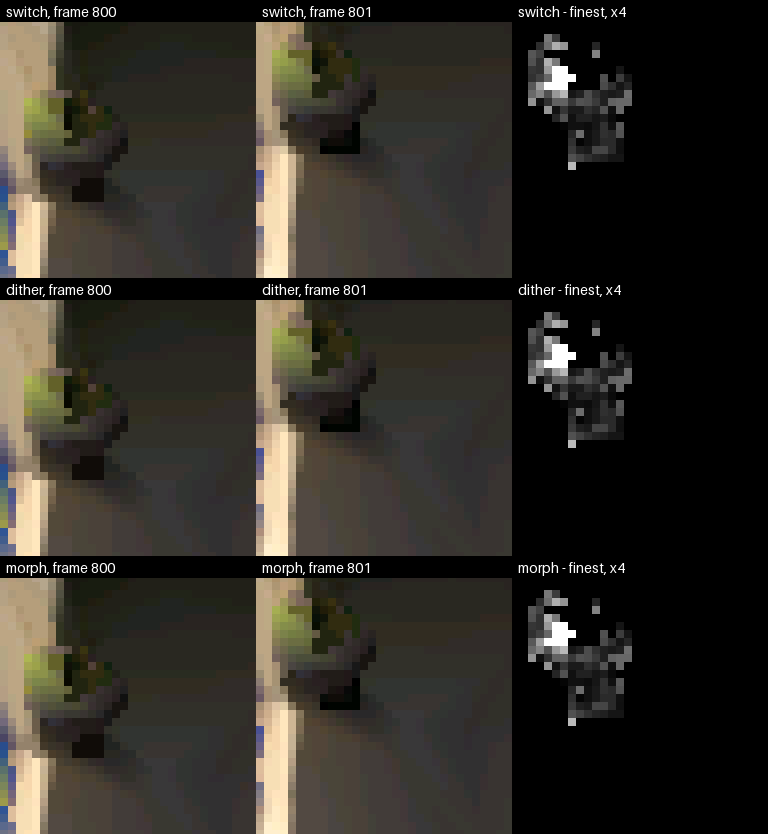
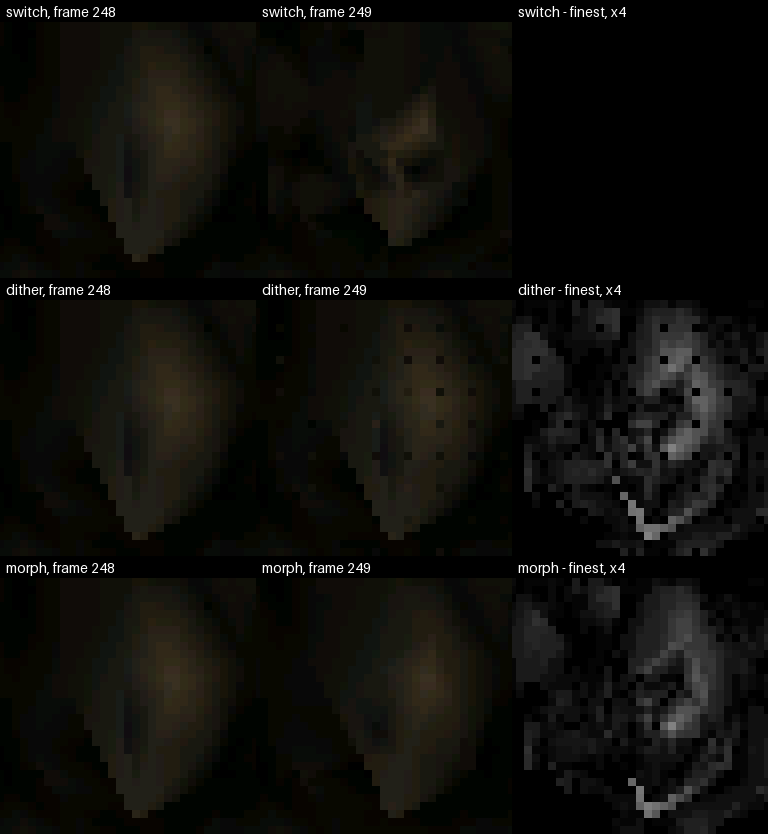
docs (i7bfd): the LOD blend clip follows a camera closing in on the Sponza lion relief at a 16 px cut, the four arms' middles side by side over the whole approach; the still zooms on the relief's own switch (a lion camera beside tour, which no bake reads)

diff --git a/launcher/tools/r3d/lod/blend_render_figures.py b/launcher/tools/r3d/lod/blend_render_figures.py
@@ -1,13 +1,15 @@
-"""The level switch the blend softens, on a scene's camera path: Levels-of-Detail.md's render figures.
+"""The level switches the blend softens, on a camera closing in on one detail: Levels-of-Detail.md's render figures.
 
     python launcher/tools/r3d/lod/blend_render_figures.py --script HOST_RENDER.sh --render "RENDERER ARGS"         --morph MESH [--morph ...] --out DIR
 
 Renders the path at the finest level, with the pick's switches drawn as they are (lod.blend switch) and blended
 (lod.blend on, which dithers a mesh without morph targets), and blended again with each --morph mesh given its
-morph targets (morph_packs.py), then finds the window where a switch pops most: the
-frame and the square whose frame-to-frame change differs most from the finest level's, on luma averaged over the
-screen door's tile (morph_table.py's worst pop). lod-blend-pop.gif plays that square through the frames around
-it, the finest level beside each arm; lod-blend-pop.png is the frame before and the frame of the pop, with each arm's difference from the finest level.
+morph targets (morph_packs.py). lod-blend-pop.gif plays the whole path, the middle of each arm's frame side by
+side, so each level switch shows as the camera closes in; the producer draws at a coarse lod.tolerance_px so
+each switch is large enough to see. lod-blend-pop.png zooms on the frame and square
+of that middle whose frame-to-frame change differs most from the finest level's, on luma averaged over the screen door's tile
+(morph_table.py's worst pop): the frame before and the frame of the pop, with each arm's difference from the
+finest level.
 """
 import argparse
 import os
@@ -34,7 +36,8 @@ from render_compare import captioned  # noqa: E402
 
 PRODUCER = Producer(area="render", needs=("host", "bakes"),
                     run=("--script", "launcher/main/apps/render_lab/tools/render_lab_render_host.sh",
-                         "--render", "--scene sponza-fitted-full --no-hud --frames 1101 --dt 33",
+                         "--render", "--scene sponza-fitted-full --camera lion --no-hud --frames 303 --dt 33"
+                                     " --set render.lod.tolerance_px=16",
                          "--morph", "sponza.atrium_fitted_full", "--out", "{out}"),
                     outputs=("lod-blend-pop.gif", "lod-blend-pop.png"))
 
@@ -42,8 +45,9 @@ ARMS = (("finest", FINEST, False), ("switch", SWITCHES, False), ("dither", blend
         ("morph", blended("on", None), True))  # (name, settings, reads the morph packs)
 CROP = POP_SQUARE  # pixels a side of the square shown
 ZOOM = 4  # each shown pixel's side in the figures
-AROUND = 8  # frames shown before and after the pop
-FRAME_MS = 100  # each GIF frame, slowed so the pop can be seen
+VIEW = 224  # pixels a side of the middle of each frame the GIF plays
+STRIDE = 3  # path frames per GIF frame
+FRAME_MS = 100  # each GIF frame, slowed so each switch can be seen
 DIFFERENCE_GAIN = 4  # the difference panels' brightness per level of difference
 
 
@@ -62,6 +66,13 @@ def render(renderer, args, sets, out, assets=None):
 def crop(frame, top, left):
     square = np.asarray(frame)[top:top + CROP, left:left + CROP]
     return Image.fromarray(square.astype(np.uint8)).resize((CROP * ZOOM, CROP * ZOOM), Image.NEAREST)
+
+
+def middle(frame):
+    """The VIEW square at the frame's middle, where the camera looks."""
+    pixels = np.asarray(frame)
+    top, left = (pixels.shape[0] - VIEW) // 2, (pixels.shape[1] - VIEW) // 2
+    return Image.fromarray(pixels[top:top + VIEW, left:left + VIEW].astype(np.uint8))
 
 
 def difference(frame, finest, top, left):
@@ -103,11 +114,11 @@ def main():
         packs = morph_packs(args.morph, work / "morph-packs")
         videos = {name: render(renderer, args.render, sets, work / name, packs if morph else None)
                   for name, sets, morph in ARMS}
+    videos = {name: [middle(frame) for frame in video] for name, video in videos.items()}
     finest, switch = videos["finest"], videos["switch"]
     _, t, top, left = worst_pop(finest, switch, AVERAGED)
-    first, end = max(t - AROUND, 0), min(t + AROUND + 1, len(finest))
-    frames = [row([captioned(crop(video[i], top, left), f"{name} {i}") for name, video in videos.items()])
-              for i in range(first, end)]
+    frames = [row([captioned(video[i], f"{name} {i}") for name, video in videos.items()])
+              for i in range(0, len(finest), STRIDE)]
     args.out.mkdir(parents=True, exist_ok=True)
     save_gif(frames, args.out / "lod-blend-pop.gif", FRAME_MS)
     sheet = []

diff --git a/docs/tools/Figures.md b/docs/tools/Figures.md
@@ -238,8 +238,8 @@ is stale, so rerun it after changing an image or the pages that show one.
 | <a href="../images/render/import-light.png"><img src="../images/render/import-light.png" width="160" alt=""></a> | Albedo against the fitted bake | [render/scene/Scene-Files](../render/scene/Scene-Files.md) | not declared yet |
 | <a href="../images/render/import-mesh-contact.png"><img src="../images/render/import-mesh-contact.png" width="160" alt=""></a> | A pillar's contact with the floor under weld, lock and free | [render/offline/Mesh-Import](../render/offline/Mesh-Import.md) | not declared yet |
 | <a href="../images/render/lod-blend-dither.png"><img src="../images/render/lod-blend-dither.png" width="160" alt=""></a> | The 4x4 screen door at five points of the ramp past leave: coarse and fine pixels | [render/frame/Levels-of-Detail](../render/frame/Levels-of-Detail.md) | [blend_figures.py](../../launcher/tools/r3d/lod/blend_figures.py) |
-| <a href="../images/render/lod-blend-pop.gif"><img src="figure-thumbnails/render/lod-blend-pop.gif" width="160" alt=""></a> | The square where a switch pops most on the fitted Sponza path, played through the frames around the pop: finest, switch, dither and morph | [render/frame/Levels-of-Detail](../render/frame/Levels-of-Detail.md) | [blend_render_figures.py](../../launcher/tools/r3d/lod/blend_render_figures.py) |
-| <a href="../images/render/lod-blend-pop.png"><img src="../images/render/lod-blend-pop.png" width="160" alt=""></a> | That square before and at the pop, switched, dithered and morphed, each beside its difference from the finest level | [render/frame/Levels-of-Detail](../render/frame/Levels-of-Detail.md) | [blend_render_figures.py](../../launcher/tools/r3d/lod/blend_render_figures.py) |
+| <a href="../images/render/lod-blend-pop.gif"><img src="figure-thumbnails/render/lod-blend-pop.gif" width="160" alt=""></a> | A camera closing in on a carved relief in the fitted Sponza atrium: finest, switch, dither and morph side by side | [render/frame/Levels-of-Detail](../render/frame/Levels-of-Detail.md) | [blend_render_figures.py](../../launcher/tools/r3d/lod/blend_render_figures.py) |
+| <a href="../images/render/lod-blend-pop.png"><img src="../images/render/lod-blend-pop.png" width="160" alt=""></a> | The square where a switch pops most on that approach, before and at the pop, switched, dithered and morphed, each beside its difference from the finest level | [render/frame/Levels-of-Detail](../render/frame/Levels-of-Detail.md) | [blend_render_figures.py](../../launcher/tools/r3d/lod/blend_render_figures.py) |
 | <a href="../images/render/lod-blend-weight.png"><img src="../images/render/lod-blend-weight.png" width="160" alt=""></a> | Coarse share of what is drawn as one group's error projects across its switches, walking in and out, blended and switched | [render/frame/Levels-of-Detail](../render/frame/Levels-of-Detail.md) | [blend_figures.py](../../launcher/tools/r3d/lod/blend_figures.py) |
 | <a href="../images/render/lod-settings.png"><img src="../images/render/lod-settings.png" width="160" alt=""></a> | The hysteresis band and the coverage cap, from the default values | [render/Render-Settings](../render/Render-Settings.md) | not declared yet |
 | <a href="../images/render/meshlet-build.gif"><img src="figure-thumbnails/render/meshlet-build.gif" width="160" alt=""></a> | The clusterizer cutting a small flat patch into meshlets, one per step | [render/offline/Baked-Mesh](../render/offline/Baked-Mesh.md) | not declared yet |

diff --git a/docs/render/frame/Levels-of-Detail.md b/docs/render/frame/Levels-of-Detail.md
@@ -127,12 +127,13 @@ stateDiagram-v2
 
 ![The 4x4 screen door at five points of the ramp past leave: coarse and fine pixels](../../images/render/lod-blend-dither.png)
 
-The fitted Sponza path where a switch pops most, played through the frames
-around it: finest, switch, dither and morph.
+A camera closing in on a carved relief down the fitted Sponza atrium:
+finest, switch, dither and morph. It is drawn at `lod.tolerance_px = 16`, so
+each switch is large enough to see.
 
-![The square where a switch pops most on the fitted Sponza path, played through the frames around the pop: finest, switch, dither and morph](../../images/render/lod-blend-pop.gif)
+![A camera closing in on a carved relief in the fitted Sponza atrium: finest, switch, dither and morph side by side](../../images/render/lod-blend-pop.gif)
 
-![That square before and at the pop, switched, dithered and morphed, each beside its difference from the finest level](../../images/render/lod-blend-pop.png)
+![The square where a switch pops most on that approach, before and at the pop, switched, dithered and morphed, each beside its difference from the finest level](../../images/render/lod-blend-pop.png)
 
 | Morph target | Rule |
 |---|---|
